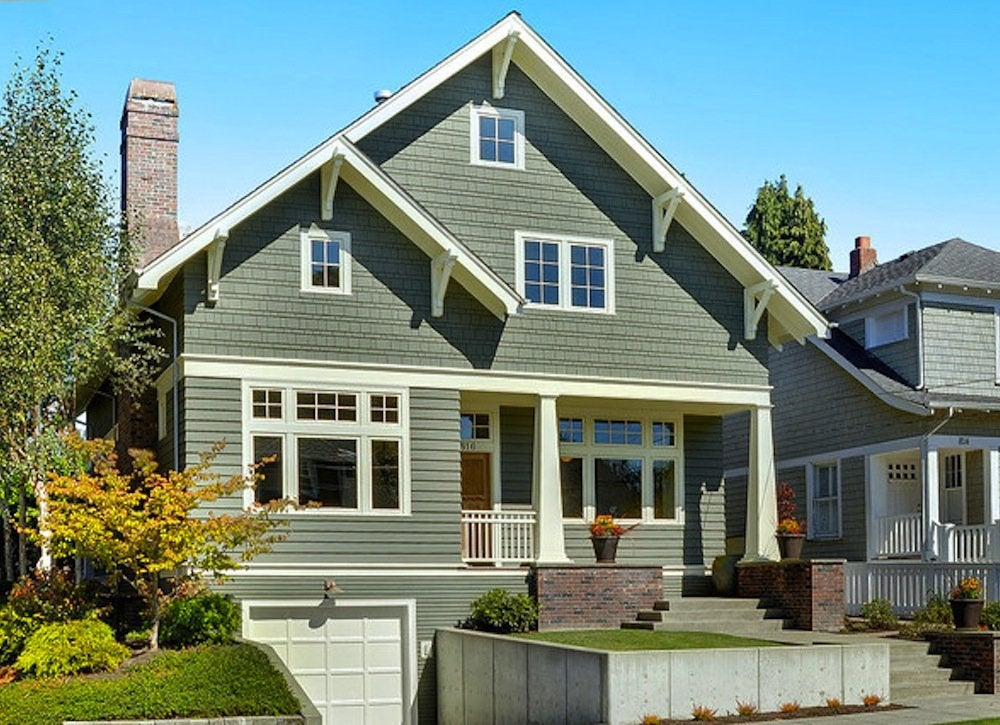
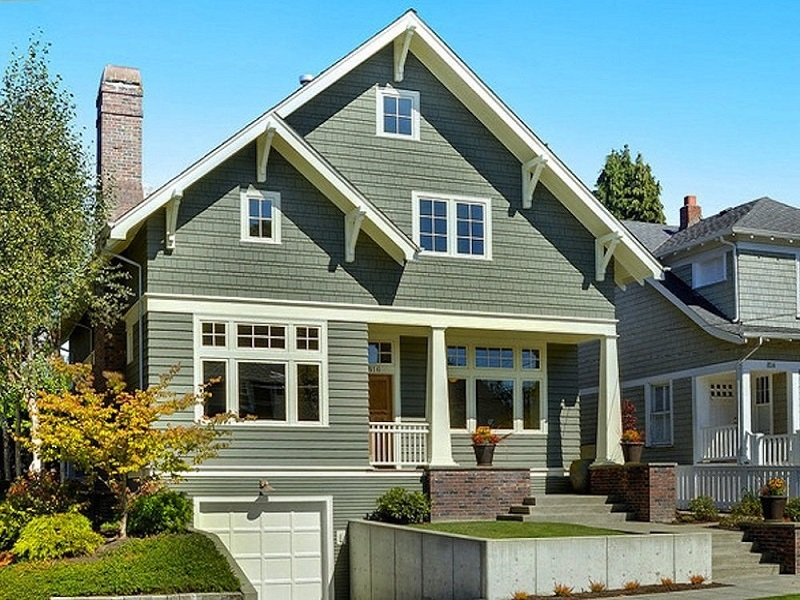
image resize

diff --git a/index.html b/index.html
@@ -7,7 +7,7 @@
         <meta name="author" content="" />
         <title>Construction Services</title>
         <!-- Favicon-->
-        <link rel="icon" type="image/x-icon" href="https://dryicons.com/free-icons/construction-icons" />
+        <link rel="icon" type="image/x-icon" href="./assets/images/Dallas-Cowboys-Logo-JPG.jpg" />
         <!-- Bootstrap icons-->
         <link href="https://cdn.jsdelivr.net/npm/bootstrap-icons@1.4.1/font/bootstrap-icons.css" rel="stylesheet" />
         <script src="https://ajax.googleapis.com/ajax/libs/jquery/3.6.0/jquery.min.js"></script>
@@ -19,7 +19,7 @@
     <body>
         <!-- Responsive navbar-->
 
-        <nav class="navbar navbar-expand-lg navbar-dark bg-dark">
+        <nav class="sticky-top navbar navbar-expand-lg navbar-dark bg-dark">
             <div class="container px-5">
                 <a class="navbar-brand" href="#!">Construction Services</a>
                 <button class="navbar-toggler" type="button" data-bs-toggle="collapse" data-bs-target="#navbarSupportedContent" aria-controls="navbarSupportedContent" aria-expanded="false" aria-label="Toggle navigation"><span class="navbar-toggler-icon"></span></button>
@@ -51,16 +51,17 @@
             </div>
         </header>
         <!-- Features section-->
+        <!-- carousel -->
         <div id="carouselExampleFade" class="carousel slide carousel-fade" data-bs-ride="carousel">
             <div class="carousel-inner">
               <div class="carousel-item active">
-                <img src="./assets/images/craftsman-exterior_sage.jpg" class="d-block w-100" alt="...">
+                <img src="./assets/images/craftsman-exterior_sage.jpg" class="img-fluid d-block w-100" alt="...">
               </div>
               <div class="carousel-item">
-                <img src="./assets/images/cowboys.jpg" class="d-block w-100" alt="...">
+                <img src="./assets/images/cowboys.jpg" class="img-fluid d-block w-100" alt="...">
               </div>
               <div class="carousel-item">
-                <img src="./assets/images/Free-Painting-Estimate-_-Kenneth-Axt-Painting-_-Woodstock-GA.png" class="d-block w-100" alt="...">
+                <img src="./assets/images/Free-Painting-Estimate-_-Kenneth-Axt-Painting-_-Woodstock-GA.png" class="img-fluid d-block w-100" alt="...">
               </div>
             </div>
             <button class="carousel-control-prev" type="button" data-bs-target="#carouselExampleFade" data-bs-slide="prev">
@@ -72,6 +73,7 @@
               <span class="visually-hidden">Next</span>
             </button>
           </div>
+          <!-- carousel -->
         <!-- Pricing section-->
         <section class="bg-light py-5 border-bottom">
             <div class="container px-5 my-5">

diff --git a/css/styles.css b/css/styles.css
@@ -89,12 +89,6 @@ body {
   -webkit-tap-highlight-color: #7F9695;
 }
 
-img {
-  float: left;
-  width:  100px;
-  height: 500px;
-  object-fit: cover;
-}
 
 hr {
   margin: 1rem 0;
@@ -6020,7 +6014,7 @@ textarea.form-control-lg {
   margin-right: -100%;
   -webkit-backface-visibility: hidden;
           backface-visibility: hidden;
-  transition: transform 0.6s ease-in-out;
+  transition: transform 0.5s ease-in-out;
 }
 @media (prefers-reduced-motion: reduce) {
   .carousel-item {
